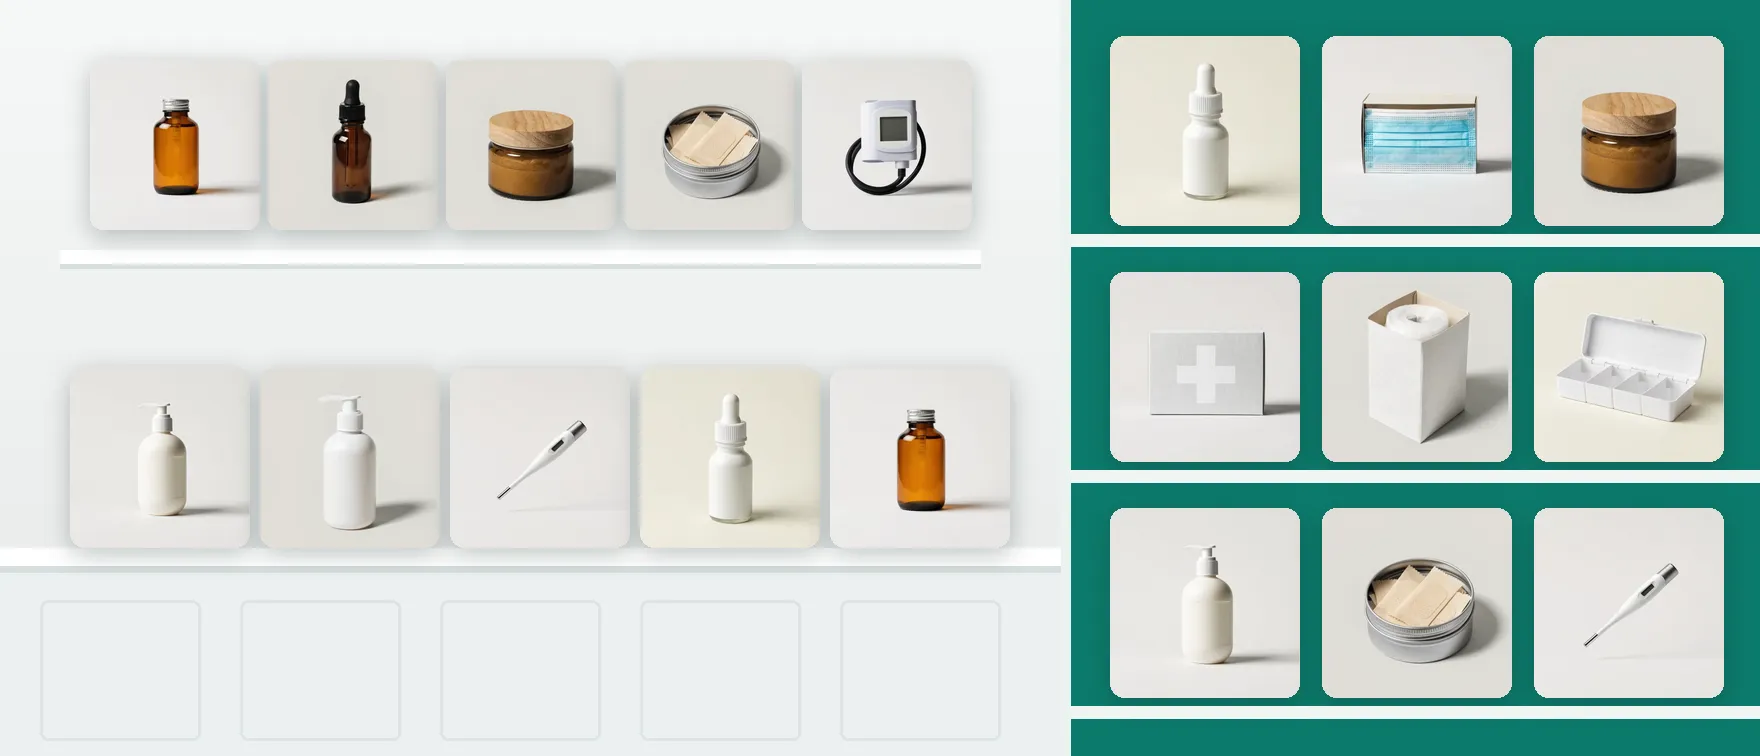
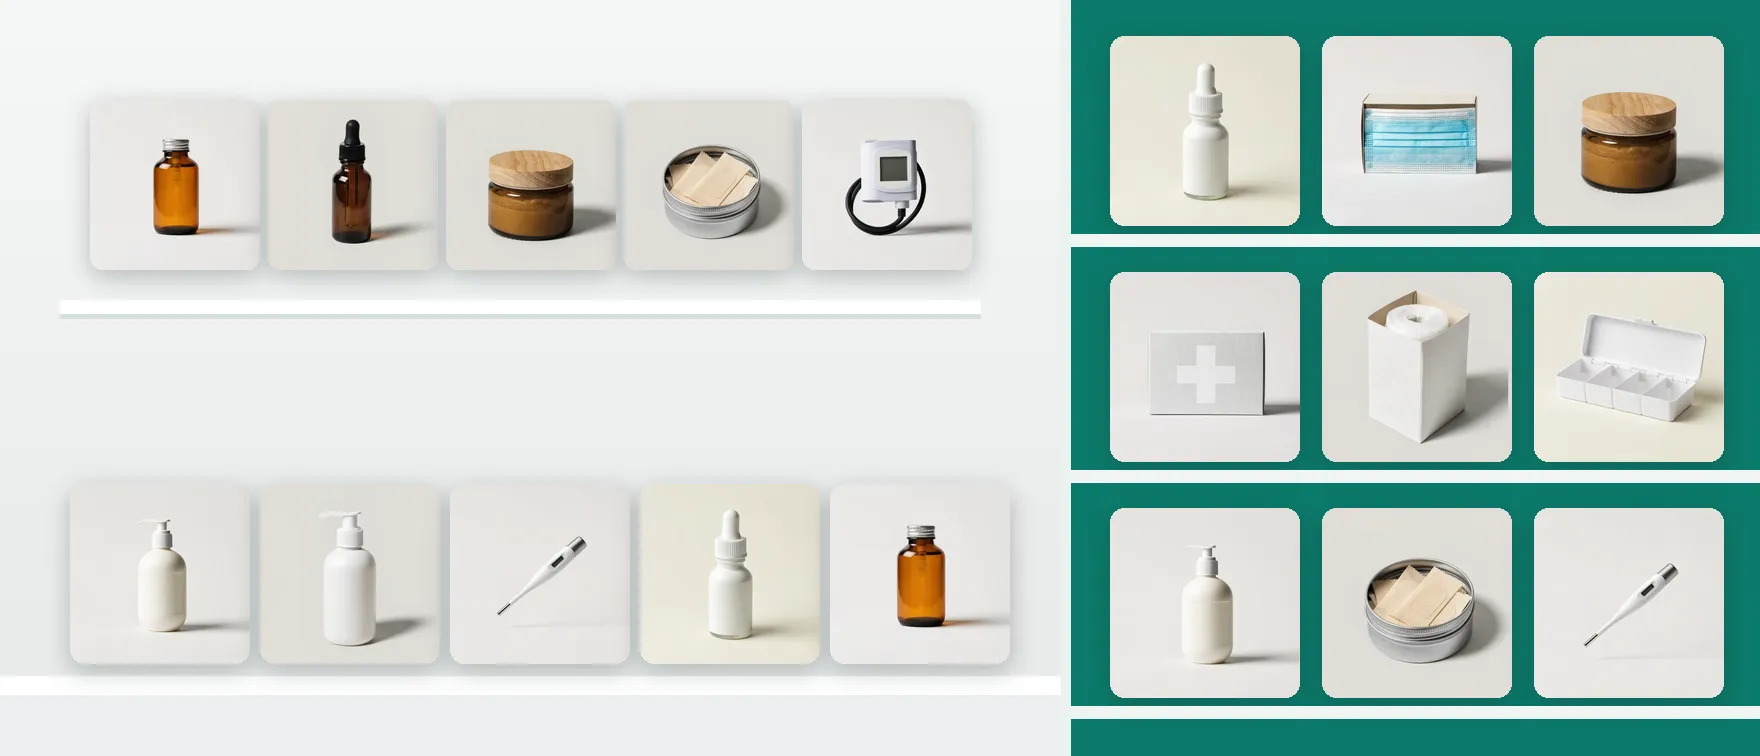
fix(examples): dawa — neutral footer and trust copy, hero without empty tiles, stacked prescription card on phone

Changed region(s): [[0.0312, 0.4868, 0.5938, 0.9127], [0.0312, 0.0608, 0.5625, 0.4259], [0.5312, 0.0608, 0.5625, 0.1217]]

diff --git a/examples/themes/dawa/assets/theme.css b/examples/themes/dawa/assets/theme.css
@@ -75,10 +75,10 @@
 .dw-search-page-form { max-width: 520px; margin: 20px auto; }
 
 /* Trust strip */
-.dw-trust-list { list-style: none; margin: 0 auto; padding: 0; display: flex; justify-content: center; gap: 16px 64px; flex-wrap: wrap; }
-.dw-trust-item { display: inline-flex; align-items: center; gap: 10px; font-size: 14px; font-weight: 600; color: var(--hk-color-text); }
+.dw-trust-list { list-style: none; margin: 0 auto; padding: 0; display: flex; justify-content: center; gap: 20px 72px; flex-wrap: wrap; }
+.dw-trust-item { display: inline-flex; align-items: center; gap: 12px; font-size: 16px; font-weight: 600; color: var(--hk-color-text); }
 .dw-trust-icon { display: inline-flex; color: var(--hk-color-primary); }
-.dw-trust-icon .ic, .dw-trust-icon .sn-icon { width: 26px; height: 26px; }
+.dw-trust-icon .ic, .dw-trust-icon .sn-icon { width: 32px; height: 32px; }
 
 /* Hero: wide pharmacy photo with the prescription card overlapping its lower edge */
 .dw-sr-only { position: absolute; width: 1px; height: 1px; margin: -1px; padding: 0; overflow: hidden; clip-path: inset(50%); white-space: nowrap; border: 0; }
@@ -252,8 +252,8 @@
   .sn-was { margin-inline-start: 0; font-size: 12px; }
   .dw-trust-list { flex-direction: column; align-items: flex-start; gap: 14px; width: fit-content; }
   .dw-hero-media { border-radius: 20px; }
-  .dw-hero { margin-bottom: 56px; }
-  .dw-rx { width: min(260px, 78%); }
+  .dw-hero { margin-bottom: 0; }
+  .dw-rx { position: relative; inset-block-end: auto; width: min(300px, 88%); margin-top: -12px; padding: 14px 16px 16px; }
   .dw-tiles { display: grid; grid-template-columns: repeat(2, minmax(0, 1fr)); gap: 12px; }
   .dw-tile-card { width: auto; }
   .dw-product-info { padding: 20px; }
